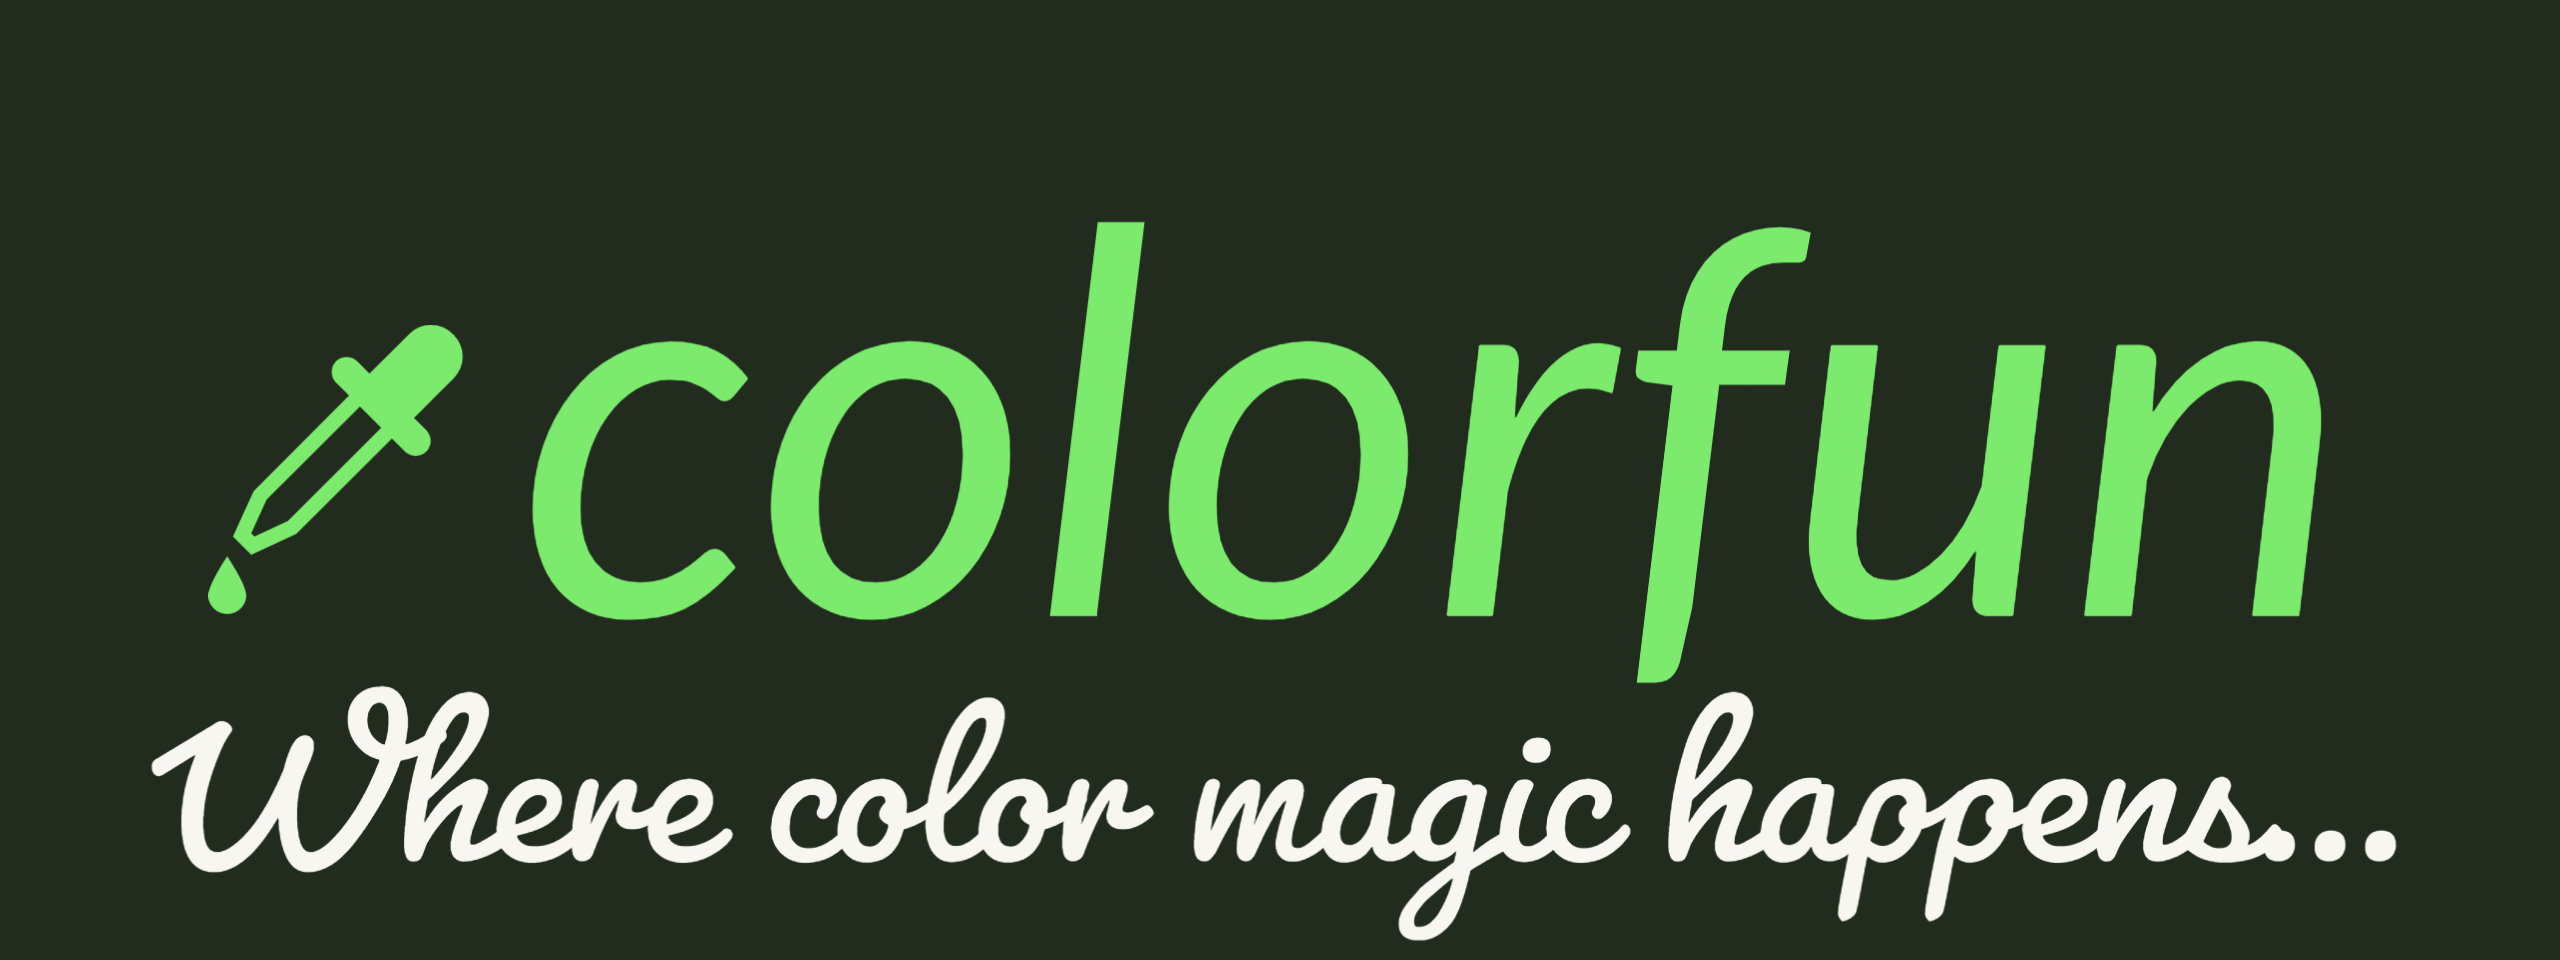
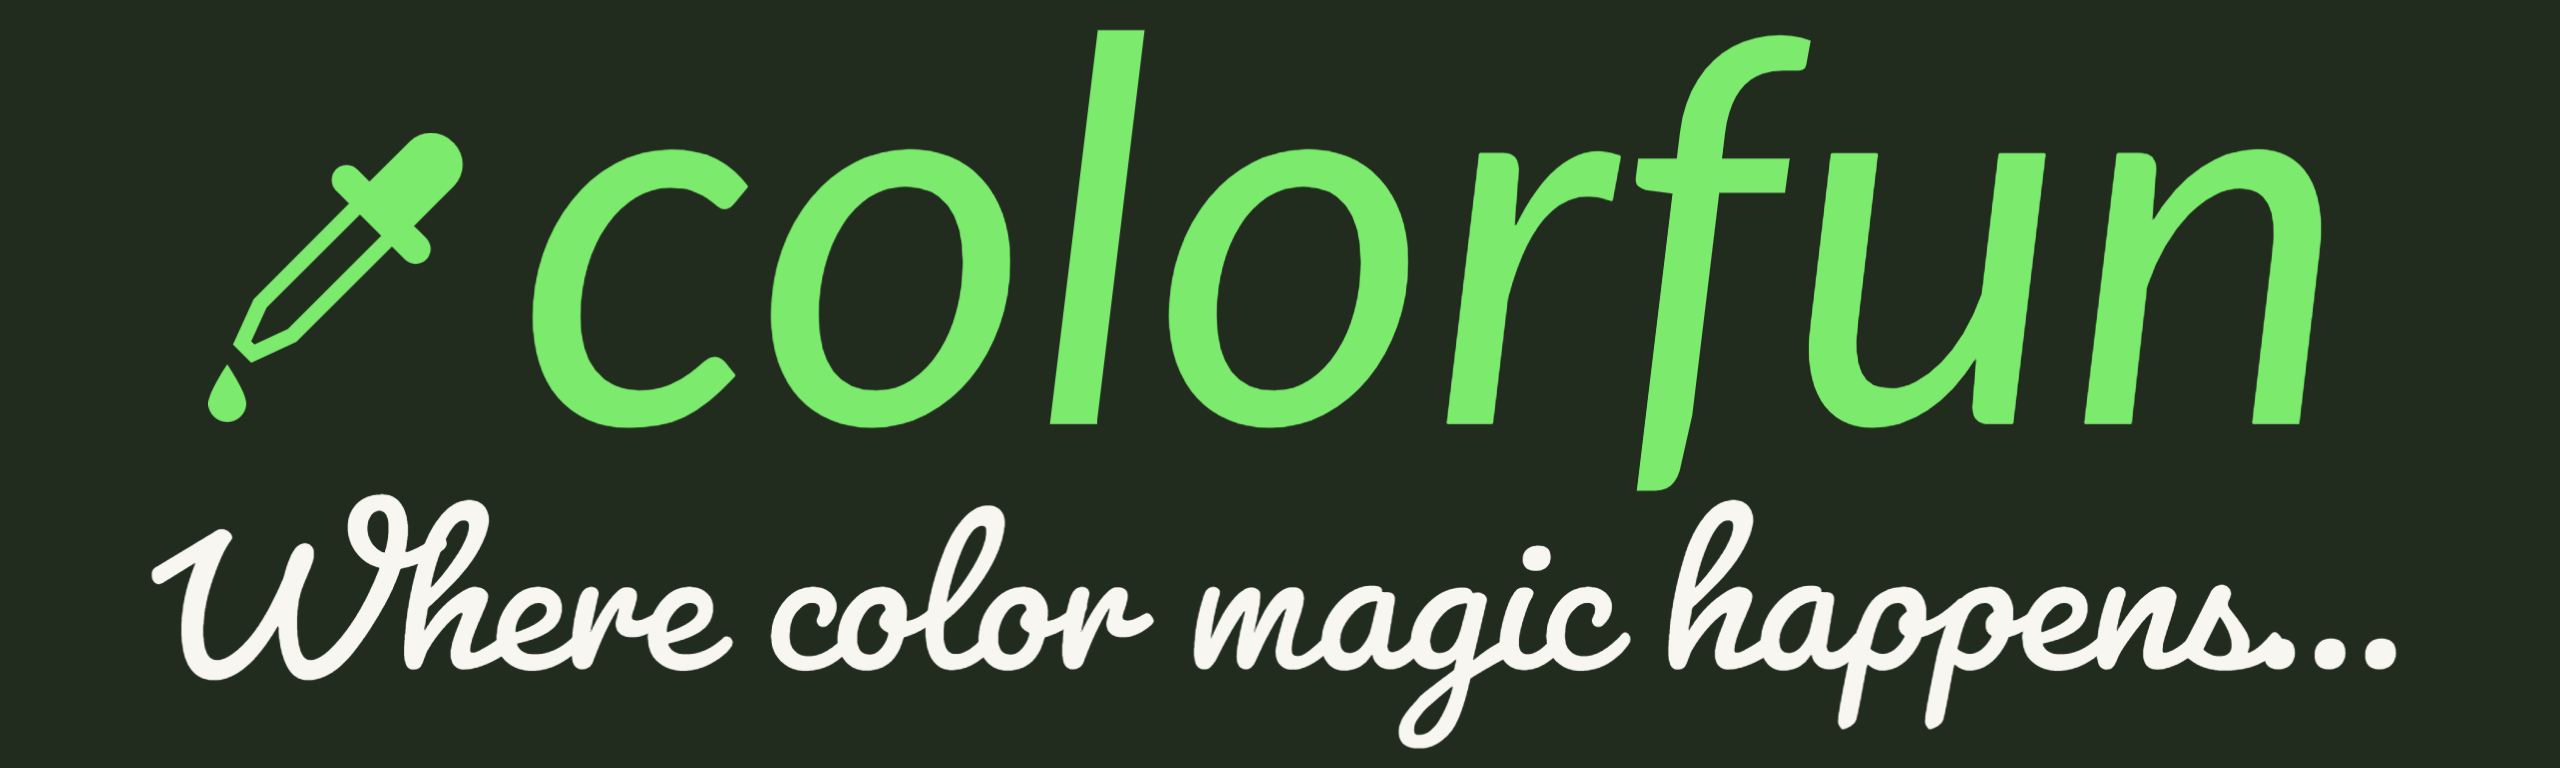
Add screenshots

Changed region(s): [[0.0625, 0.0312, 0.9375, 1.0], [0.0625, 0.5938, 0.0938, 0.6562]]

diff --git a/style.css b/style.css
@@ -24,12 +24,12 @@ header {
 }
 #logo {
     width: 300px;
-    height: 112px;
+    height: 90px;
 }
 @media screen and (min-width: 913px) {
     #logo {
         width: 400px;
-        height: 150px;
+        height: 120px;
     }
 }
 main {

diff --git a/README.md b/README.md
@@ -1,1 +1,40 @@
 # colorfun
+
+> A Hex / RGB Generator webapp created with CSS Grid.
+> Live demo [_here_](https://www.mariosdaskalas.gr/colorfun).
+
+## Table of Contents
+
+* [General Information](#general-information)
+* [Technologies Used](#technologies-used)
+* [Screenshots](#screenshots)
+* [Project Status](#project-status)
+* [Contact](#contact)
+* [License](#license)
+
+## General Information
+
+* A Hex / RGB Generator webapp created with CSS Grid.
+
+## Technologies Used
+
+* HTML5
+* CSS3
+* Javascript
+
+## Screenshots
+
+![Colorfun / HEX / RGB Generator](https://mariosdaskalas.gr/colorfun/scrot/scrot1.png)
+
+
+## Project Status
+
+Project is: _completed_ ✔
+
+## Contact
+
+Created by [@mariosdaskalas](https://github.com/mariosdaskalas)
+
+## License
+
+MIT License 📝
